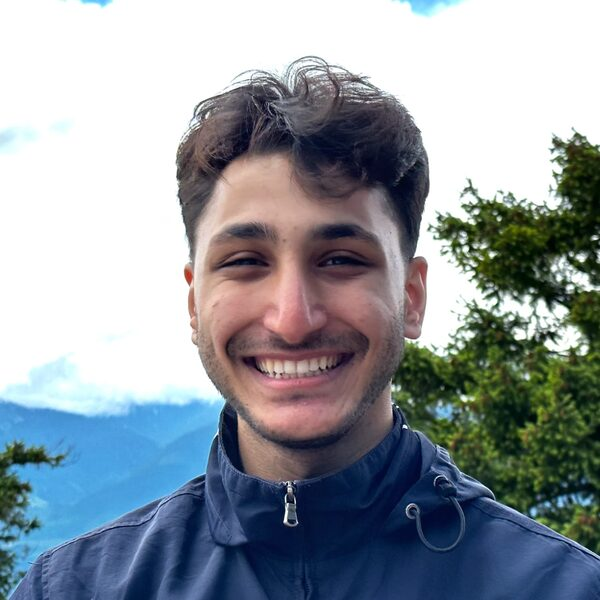
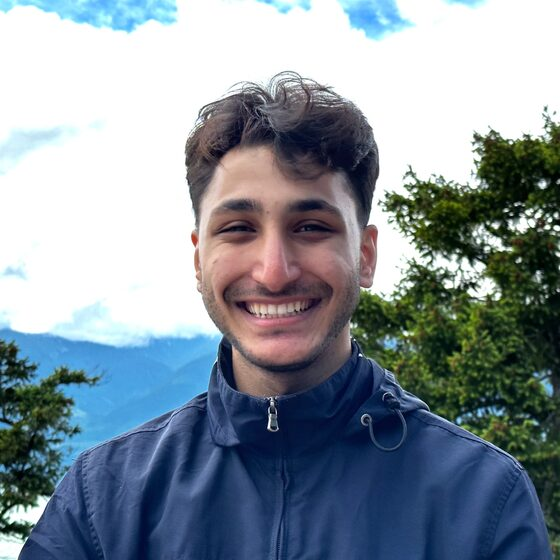
Default to light theme, with a separate dark-mode portrait
- The site is now light unless the visitor picks dark with the toggle; it no
  longer follows the OS colour-scheme setting. The browser theme colour
  follows the chosen theme.
- Dark mode shows a night photo; light mode keeps the daytime one. Both are
  560x560 crops framed to match.

diff --git a/src/assets/css/site.css b/src/assets/css/site.css
@@ -112,30 +112,6 @@
   color-scheme: dark;
 }
 
-@media (prefers-color-scheme: dark) {
-  :root:not([data-theme="light"]) {
-    --bg: #131312;
-    --bg-raised: #1a1a18;
-    --panel: #1b1b19;
-    --ink: #eeece6;
-    --ink-2: #cfccc4;
-    --muted: #9b978d;
-    --faint: #6e6b63;
-    --rule: #2a2926;
-    --rule-strong: #3b3a35;
-    --accent: #ff7a57;
-    --accent-soft: rgba(255, 122, 87, 0.11);
-    --accent-line: rgba(255, 122, 87, 0.5);
-    --on-accent: #1a0d08;
-    --blue: #86afe0;
-    --sel: rgba(255, 122, 87, 0.26);
-    --fig-surface: #20201d;
-    --fig-fill: #2f2e2a;
-    --fig-ink: #4e4c46;
-    color-scheme: dark;
-  }
-}
-
 @media (max-width: 1080px) {
   :root { --rail: 8.5rem; --gap: 2.5rem; }
 }
@@ -310,10 +286,6 @@ img { max-width: 100%; }
 .theme-toggle__sun { display: none; }
 :root[data-theme="dark"] .theme-toggle__sun { display: block; }
 :root[data-theme="dark"] .theme-toggle__moon { display: none; }
-@media (prefers-color-scheme: dark) {
-  :root:not([data-theme="light"]) .theme-toggle__sun { display: block; }
-  :root:not([data-theme="light"]) .theme-toggle__moon { display: none; }
-}
 
 /* ------------------------------------------------------------------- hero */
 
@@ -353,6 +325,10 @@ img { max-width: 100%; }
   background: var(--panel);
   filter: saturate(0.92);
 }
+/* One photo per theme. */
+.hero__portrait--dark { display: none; }
+:root[data-theme="dark"] .hero__portrait--light { display: none; }
+:root[data-theme="dark"] .hero__portrait--dark { display: block; }
 
 .hero__name {
   margin: 0;
@@ -1037,7 +1013,8 @@ img { max-width: 100%; }
   }
   html { font-size: 10pt; background: #fff; }
   body { background: #fff; font-size: 10.5pt; }
-  .masthead, .colophon, .skip, .fig__replay, .linklike, .bib, .hero__field { display: none !important; }
+  .masthead, .colophon, .skip, .fig__replay, .linklike, .bib, .hero__field, .hero__portrait--dark { display: none !important; }
+  .hero__portrait--light { display: block !important; }
   a { text-decoration: none; }
   .section, .thread, .pub, .entry { break-inside: avoid; }
 }

diff --git a/src/assets/js/site.js b/src/assets/js/site.js
@@ -10,12 +10,14 @@ const reduced = matchMedia('(prefers-reduced-motion: reduce)').matches;
 
 /* ---------- theme ---------- */
 
-const systemDark = matchMedia('(prefers-color-scheme: dark)');
-const activeTheme = () => root.getAttribute('data-theme') || (systemDark.matches ? 'dark' : 'light');
+// Light by default; dark only when chosen with the toggle.
+const activeTheme = () => (root.getAttribute('data-theme') === 'dark' ? 'dark' : 'light');
+const themeColor = document.querySelector('meta[name="theme-color"]');
 
 document.querySelector('[data-theme-toggle]')?.addEventListener('click', () => {
   const next = activeTheme() === 'dark' ? 'light' : 'dark';
   root.setAttribute('data-theme', next);
+  if (themeColor) themeColor.content = next === 'dark' ? '#131312' : '#fbfaf7';
   try {
     localStorage.setItem('theme', next);
   } catch {

diff --git a/src/assets/js/landscape.js b/src/assets/js/landscape.js
@@ -328,7 +328,6 @@ export function mountLandscape(canvas, { reduced, clear }) {
     if (!running) draw(0);
   };
   new MutationObserver(recolor).observe(root, { attributes: true, attributeFilter: ['data-theme'] });
-  matchMedia('(prefers-color-scheme: dark)').addEventListener('change', recolor);
 
   new IntersectionObserver(([entry]) => {
     visible = entry.isIntersecting;
